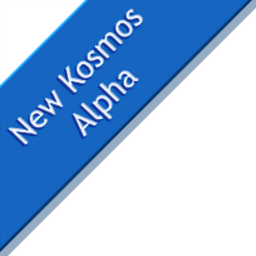
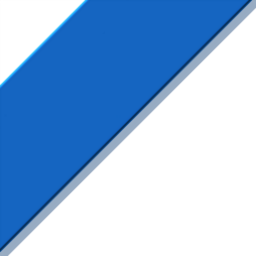
Working on improving UIs.

Changed region(s): [[0.2188, 0.0312, 0.5625, 0.375], [0.2812, 0.25, 0.5625, 0.5625], [0.0312, 0.3438, 0.25, 0.5625]]

diff --git a/src/kosmos/uis/OverlayHUD.java b/src/kosmos/uis/OverlayHUD.java
@@ -1,14 +1,18 @@
 package kosmos.uis;
 
+import flounder.fonts.*;
 import flounder.guis.*;
 import flounder.maths.*;
 import flounder.maths.vectors.*;
 import flounder.resources.*;
 import flounder.textures.*;
+import flounder.visual.*;
 import kosmos.world.*;
 
 public class OverlayHUD extends ScreenObject {
 	private GuiObject cornerAlpha;
+	private TextObject cornerVersion;
+
 	private GuiObject crossHair;
 
 	private TextureObject hudTexture;
@@ -21,16 +25,22 @@ public class OverlayHUD extends ScreenObject {
 		super(parent, new Vector2f(0.5f, 0.5f), new Vector2f(1.0f, 1.0f));
 		super.setInScreenCoords(false);
 
+		this.cornerAlpha = new GuiObject(FlounderGuis.getContainer(), new Vector2f(0.06f, 0.06f), new Vector2f(0.12f, 0.12f), TextureFactory.newBuilder().setFile(new MyFile(FlounderGuis.GUIS_LOC, "cornerAlpha.png")).create(), 1);
+		this.cornerAlpha.setInScreenCoords(true);
+	//	this.cornerAlpha.setRotationDriver(new ConstantDriver(-45.0f));
+
+		this.cornerVersion = new TextObject(this, new Vector2f(0.042f, 0.042f), "New Kosmos \n Alpha", 0.61f, FlounderFonts.CANDARA, 0.2f, GuiAlign.CENTRE);
+		this.cornerVersion.setInScreenCoords(true);
+		this.cornerVersion.setColour(new Colour(1.0f, 1.0f, 1.0f));
+		this.cornerVersion.setRotationDriver(new ConstantDriver(-45.0f));
+
 		this.hudTexture = TextureFactory.newBuilder().setFile(new MyFile(MyFile.RES_FOLDER, "guis", "hudSprites.png")).setNumberOfRows(3).create();
 		this.hudProgress = TextureFactory.newBuilder().setFile(new MyFile(MyFile.RES_FOLDER, "guis", "circularProgress.png")).setNumberOfRows(4).create();
 		this.statusHealth = new HudStatus(this, hudTexture, hudProgress, 2, 0.0f, new Colour(1.0f, 0.2f, 0.2f));
 		this.statusThirst = new HudStatus(this, hudTexture, hudProgress, 3, 0.1f, new Colour(0.2f, 0.2f, 1.0f));
 		this.statusHunger = new HudStatus(this, hudTexture, hudProgress, 4, 0.2f, new Colour(1.0f, 0.4f, 0.0f));
 
-		this.cornerAlpha = new GuiObject(FlounderGuis.getContainer(), new Vector2f(0.06f, 0.06f), new Vector2f(0.12f, 0.12f), TextureFactory.newBuilder().setFile(new MyFile(FlounderGuis.GUIS_LOC, "cornerAlpha.png")).create(), 1);
-		this.cornerAlpha.setInScreenCoords(true);
-
-		this.crossHair = new GuiObject(FlounderGuis.getContainer(), new Vector2f(0.5f, 0.5f), new Vector2f(0.04f, 0.04f), TextureFactory.newBuilder().setFile(new MyFile(FlounderGuis.GUIS_LOC, "crosshair.png")).setNumberOfRows(4).create(), 1);
+		this.crossHair = new GuiObject(this, new Vector2f(0.5f, 0.5f), new Vector2f(0.04f, 0.04f), TextureFactory.newBuilder().setFile(new MyFile(FlounderGuis.GUIS_LOC, "crosshair.png")).setNumberOfRows(4).create(), 1);
 		this.crossHair.setInScreenCoords(false);
 		this.crossHair.setColourOffset(new Colour(0.1f, 0.8f, 0.2f));
 	}

diff --git a/src/kosmos/KosmosGuis.java b/src/kosmos/KosmosGuis.java
@@ -2,9 +2,14 @@ package kosmos;
 
 import flounder.devices.*;
 import flounder.events.*;
+import flounder.fonts.*;
 import flounder.framework.*;
 import flounder.guis.*;
 import flounder.inputs.*;
+import flounder.maths.*;
+import flounder.maths.vectors.*;
+import flounder.resources.*;
+import flounder.textures.*;
 import flounder.visual.*;
 import kosmos.uis.*;
 
@@ -20,6 +25,9 @@ public class KosmosGuis extends GuiMaster {
 	private ValueDriver slideDriver;
 	private float backgroundAlpha;
 
+	private TextObject to;
+	private GuiObject go;
+
 	public KosmosGuis() {
 		super();
 	}
@@ -33,6 +41,16 @@ public class KosmosGuis extends GuiMaster {
 		this.overlayHUD.setVisible(true);
 		this.overlayDebug.setVisible(false);
 		this.overlayChat.setVisible(false);
+
+		String s = "I'm Harambe, and this is my zoo enclosure. I work here with my zoo keeper and my friend, cecil the lion. Everything in here has a story and a price. One thing I've learned after 21 years - you never know WHO is gonna come over that fence.";
+		to = new TextObject(FlounderGuis.getContainer(), new Vector2f(0.5f, 0.5f), s, 1.5f, FlounderFonts.CANDARA, 0.3f, GuiAlign.RIGHT);
+		to.setInScreenCoords(false);
+		to.setColour(new Colour(1.0f, 1.0f, 1.0f));
+		to.setBorderColour(new Colour(1.0f, 0.3f, 0.3f));
+		to.setGlowing(new SinWaveDriver(0.35f, 0.5f, 3.0f));
+
+		go = new GuiObject(FlounderGuis.getContainer(), new Vector2f(0.5f, 0.5f), new Vector2f(), TextureFactory.newBuilder().setFile(new MyFile(MyFile.RES_FOLDER, "undefined.png")).create(), 1);
+		go.setInScreenCoords(false);
 
 		this.slideDriver = new ConstantDriver(0.0f);
 		this.backgroundAlpha = 0.0f;
@@ -100,6 +118,16 @@ public class KosmosGuis extends GuiMaster {
 	@Override
 	public void update() {
 		backgroundAlpha = slideDriver.update(Framework.getDelta());
+
+		Vector2f.multiply(to.getDimensions(), to.getMeshSize(), go.getDimensions());
+		go.getDimensions().scale(2.0f * to.getScale());
+		go.getPositionOffsets().set(to.getPositionOffsets());
+
+		if (FlounderGuis.getSelector().isSelected(to)) {
+			to.setColour(new Colour(1.0f, 0.0f, 0.0f));
+		} else {
+			to.setColour(new Colour(1.0f, 1.0f, 1.0f));
+		}
 
 		if (!isGamePaused() && FlounderMouse.isDisplaySelected() && FlounderDisplay.isFocused()) {
 			FlounderMouse.setCursorHidden(KosmosConfigs.CAMERA_MOUSE_LOCKED.getBoolean());

diff --git a/src/kosmos/uis/OverlayChat.java b/src/kosmos/uis/OverlayChat.java
@@ -41,7 +41,7 @@ public class OverlayChat extends ScreenObject {
 		this.textureInput = new GuiObject(this, new Vector2f(0.5f, 1.0f - (INPUT_AREA_HEIGHT / 2.0f)), new Vector2f(1.0f, INPUT_AREA_HEIGHT), TextureFactory.newBuilder().setFile(new MyFile(MyFile.RES_FOLDER, "guis", "chatInput.png")).create(), 1);
 		this.textureInput.setInScreenCoords(false);
 
-		this.currentInput = new TextObject(this, new Vector2f(0.01f, 0.972f), START_STRING, 0.875f, FlounderFonts.CANDARA, 1.0f, GuiAlign.LEFT);
+		this.currentInput = new TextObject(this, new Vector2f(0.01f, 1.0f - (INPUT_AREA_HEIGHT / 2.0f)), START_STRING, 1.1f, FlounderFonts.CANDARA, 1.0f, GuiAlign.LEFT);
 		this.currentInput.setInScreenCoords(false);
 		this.currentInput.setColour(new Colour(1.0f, 1.0f, 1.0f));
 
@@ -108,7 +108,7 @@ public class OverlayChat extends ScreenObject {
 	}
 
 	public void addText(String string, Colour colour) {
-		TextObject text = new TextObject(this, new Vector2f(0.01f, 0.02f + (chatMessages.size() * 0.03f)), " > " + string, 0.7f, FlounderFonts.SEGOE, 1.5f, GuiAlign.LEFT);
+		TextObject text = new TextObject(this, new Vector2f(0.01f, 0.02f + (chatMessages.size() * 0.03f)), " > " + string, 1.0f, FlounderFonts.CANDARA, 1.5f, GuiAlign.LEFT);
 		text.setColour(colour);
 		chatMessages.add(text);
 
